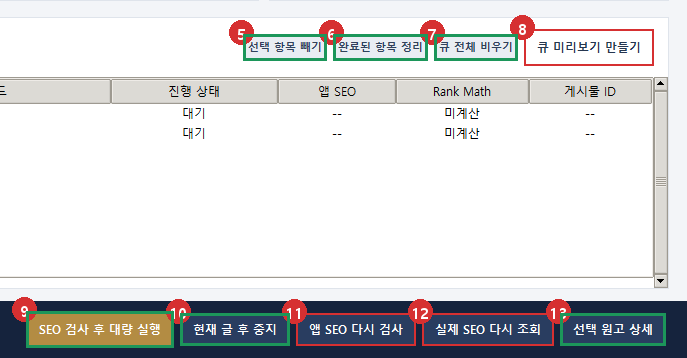
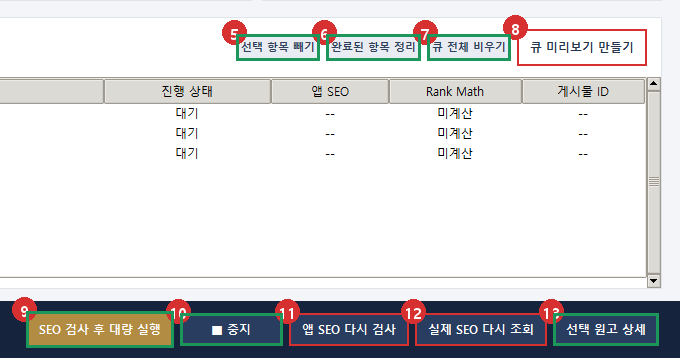
설명서 최신화 — 사전 및 후속작업 탭, 점수 기능 켜기, 글 간격
화면이 바뀐 것을 설명서에 반영하고 지도를 다시 찍었다.

바뀐 내용
- 탭 2 이름: 후속작업 준비 → 사전 및 후속작업 (사전 로그인도 여기 있다)
- Rank Math 버튼 둘(저장된 점수만 조회 / 점수 측정)을 '점수 확인' 하나로 합쳤다.
  먼저 저장된 점수를 즉시 가져오고, 없는 글만 편집기를 열어 잰다.
- '사이트별 Rank Math 점수 사용 가능 여부' 칸과 '점수 기능 켜기' 버튼 추가
- 예약 발행을 없앴다. 임시저장 / 바로 발행 둘 중 하나이고,
  글 간격만큼 실제로 기다렸다가 한 건씩 올린다(그동안 프로그램을 켜 두어야 한다).
- '첫 예약 시각' → '시작 시각', 큐 표의 '예약 시각' → '올릴 시각'
- exe 파일 이름에 판 번호가 붙는다. README 에 최신 판 뱃지를 달았다.

촬영
- 지도 10장을 다시 찍었다. 촬영 창을 1440x1040 으로 키웠다 — 칸이 늘어
  아래 버튼들이 화면 밖으로 밀려 번호가 붙지 않았다.
- 촬영은 데모 홈으로 한다. 사이트 이름은 '예시 사이트 A/B', 주소·계정·비밀번호는 가림.

diff --git a/docs/MANUAL.md b/docs/MANUAL.md
@@ -33,7 +33,7 @@
 
 1. 프로그램을 켜면 로그인 창이 먼저 뜹니다. 발급받은 아이디·비밀번호로 로그인하세요('이 컴퓨터에 비밀번호 저장'을 켜면 다음부터 안 쳐도 됩니다). 권한(wordpress_new)이 없는 계정이면 관리자에게 요청하세요.
 2. 사이트 설정(오른쪽 위 ⚙): 주소·사용자명·응용 프로그램 비밀번호를 넣고 ④ 카테고리 자동 불러오기 가 목록을 가져오면 계정이 맞는 것입니다. ⑤ 적용 → ⑧ 전체 설정 저장.
-3. 탭 2 사전 로그인: ChatGPT ⑩ 로그인 열기 로 로그인(필수). 구글 색인을 쓸 거면 그 아래 같은 버튼으로 Google, Rank Math 점수 측정을 쓸 거면 사이트별 ⑫ 자동 로그인.
+3. 탭 2 사전 로그인: ChatGPT ⑩ 로그인 열기 로 로그인(필수). AI 이미지와 구글 색인을 쓸 거면 그 아래 같은 버튼으로 Google, Rank Math 점수 확인을 쓸 거면 사이트별 ⑫ 자동 로그인. 구글 계정은 하나만 쓸 수 있으니, 색인할 사이트는 모두 그 계정의 Search Console에 등록해 두세요.
 4. 로그인이 끝나면 크롬 창을 모두 닫습니다. 프로그램 전용 프로필로 크롬이 열려 있으면 원고 생성이 실패합니다(탭 2에 '열린 크롬 닫기' 버튼이 뜨면 누르세요).
 5. 탭 1에서 글 구성·지침을 확인하고 시험 주행으로 한 건 뽑아 형태를 봅니다(처음 한 번, 지침을 바꿨을 때).
 6. 이미지를 넣을 거면 방식을 정합니다 — 고정 파일이면 파일 준비, 이미지 풀이면 그림을 폴더에 모아 두기, AI 생성이면 Google 로그인과 Flow 크레딧 확인. (Q6 참고)
@@ -41,8 +41,8 @@
 ![사이트 설정 ④ 카테고리 불러오기 → ⑤ 적용 → ⑧ 저장](manual/case-q2-site.png)
 *사이트 설정 ④ 카테고리 불러오기 → ⑤ 적용 → ⑧ 저장*
 
-![탭 2 사전 로그인 ⑩ ChatGPT·Google · ⑫ WordPress 자동 로그인 · ⑬ 상태 새로고침](manual/case-q2-login.png)
-*탭 2 사전 로그인 ⑩ ChatGPT·Google · ⑫ WordPress 자동 로그인 · ⑬ 상태 새로고침*
+![탭 2 사전 로그인 ⑩ ChatGPT·Google · ⑫ WordPress 자동 로그인 · ⑭ 상태 새로고침](manual/case-q2-login.png)
+*탭 2 사전 로그인 ⑩ ChatGPT·Google · ⑫ WordPress 자동 로그인 · ⑭ 상태 새로고침*
 
 ![④가 성공하면 기본 카테고리 목록이 채워집니다](manual/result-site-categories.png)
 *④가 성공하면 기본 카테고리 목록이 채워집니다*
@@ -71,11 +71,11 @@
 ![실제 1건 발행 타임랩스](manual/videos/v6-posting-timelapse.gif)  
 [MP4로 보기](manual/videos/v6-posting-timelapse.mp4)
 
-### Q4. 여러 사이트에 시간을 나눠 예약 발행하고 싶어요
+### Q4. 여러 사이트에 시간을 나눠 올리고 싶어요
 
 1. 탭 4 스케줄 → ⑨ 대량 스케줄 열기.
 2. 스케줄 창 1번 칸에서 사이트를 고르고 → 2번 칸에 키워드 입력 → ③ 현재 사이트 키워드 저장. 사이트마다 반복합니다.
-3. 3번 칸에서 사이트 순서(교대/사이트별), 첫 예약 시각(최소 10분 뒤), 글 간격, WordPress 처리(예약 공개/임시저장), 본문 이미지를 정합니다.
+3. 3번 칸에서 사이트 순서(교대/사이트별), 시작 시각, 글 간격(분), WordPress 처리(임시저장/바로 발행), 본문 이미지를 정합니다. 글 간격만큼 실제로 기다렸다가 한 건씩 올리므로, 그동안 프로그램을 켜 두어야 합니다. 시작하기 전 확인창이 마지막 글 예정 시각을 알려 줍니다.
 4. ⑧ 큐 미리보기 만들기 → 큐 표에 순번·예약 시각이 채워집니다. 확인 후 ⑨ SEO 검사 후 대량 실행.
 5. 앱 SEO 90점 미만 글은 WordPress로 보내지 않고 'SEO 기준 미달'로 남습니다. ⑬ 선택 원고 상세 로 원고를 보고, ⑪ 앱 SEO 다시 검사 로 재채점할 수 있습니다.
 
@@ -95,13 +95,13 @@
 ### Q5. 발행한 뒤에는 무엇을 하나요 (점수 확인·구글 색인)
 
 1. 탭 2 후속작업 대상 표에서 글을 선택합니다(여러 개 선택 가능).
-2. ⑱ Rank Math 점수 측정 → 확인창에서 '측정 시작'. 크롬이 편집기를 열어 실제 점수를 읽어 옵니다(건당 10~20초). 끝나면 감점 항목 진단과 지침 제안이 뜹니다.
+2. ⑱ Rank Math 점수 확인 → 확인창에서 '확인 시작'. 먼저 WordPress에 저장된 점수를 즉시 가져오고, 그래도 없는 글만 크롬이 편집기를 열어 계산시킵니다(건당 10~20초). 끝나면 감점 항목 진단과 지침 제안이 뜹니다.
 3. 점수가 괜찮으면 WordPress 편집기에서 공개합니다(탭 5에서 행 더블클릭 → 편집기 열림).
-4. 공개한 글을 선택하고 ⑲ 구글 색인 요청. 사이트당 하루 10건 한도이고, 임시저장 글은 요청할 수 없습니다.
-5. 브라우저를 안 열고 저장된 값만 보려면 ⑰ 저장된 점수만 조회.
+4. 구글 색인을 쓰려면 먼저 Search Console 준비가 필요합니다. 색인할 사이트를 모두 같은 구글 계정의 Search Console에 속성으로 추가하고 소유권을 확인해 두세요. 프로그램은 사전 로그인에 연결된 구글 계정 하나로만 요청합니다.
+5. 공개한 글을 선택하고 ⑲ 구글 색인 요청. 사이트당 하루 10건 한도이고, 임시저장 글은 요청할 수 없습니다.
 
-![후속작업 대상 표 → ⑰ 저장된 점수 · ⑱ Rank Math 측정 · ⑲ 구글 색인](manual/case-q5-followup.png)
-*후속작업 대상 표 → ⑰ 저장된 점수 · ⑱ Rank Math 측정 · ⑲ 구글 색인*
+![후속작업 대상 표 → ⑱ Rank Math 점수 확인 · ⑲ 구글 색인](manual/case-q5-followup.png)
+*후속작업 대상 표 → ⑱ Rank Math 점수 확인 · ⑲ 구글 색인*
 
 ![⑱ 확인창](manual/result-tab2-rankmath.png)
 *⑱ 확인창*
@@ -142,11 +142,11 @@
   누르면: '로그 저장 완료' 안내 한 줄만 뜹니다. 폴더나 파일이 따로 생기지 않습니다. 인터넷이 끊겨 있으면 다시 눌러 달라는 안내가 뜹니다.
 - **3. 탭 1 프롬프트 조정** — ChatGPT에 시킬 글 구성과 지침을 정합니다.  
   누르면: 탭이 바뀝니다.
-- **4. 탭 2 후속작업 준비** — 로그인 상태 확인, Rank Math 실제 점수, 구글 색인.  
+- **4. 탭 2 사전 및 후속작업** — 로그인 상태 확인, 사이트별 점수 사용 가능 여부, Rank Math 점수, 구글 색인.  
   누르면: 탭이 바뀌면서 로그인 상태와 후속작업 목록을 새로 읽습니다.
 - **5. 탭 3 포스팅** — 키워드를 넣어 한 사이트에 바로 올립니다.  
   누르면: 탭이 바뀝니다.
-- **6. 탭 4 스케줄** — 여러 사이트에 예약 발행합니다.  
+- **6. 탭 4 스케줄** — 여러 사이트에 정한 간격으로 순서대로 올립니다.  
   누르면: 탭이 바뀝니다.
 - **7. 탭 5 히스토리** — 지금까지 발행한 글 목록.  
   누르면: 탭이 바뀌면서 이력을 새로 읽습니다.
@@ -228,11 +228,11 @@
 ![블록 수정 → 프롬프트 미리보기 → 시험 키워드 입력](manual/videos/v2-prompt-tab.gif)  
 [MP4로 보기](manual/videos/v2-prompt-tab.mp4)
 
-### 탭 2. 후속작업 준비
+### 탭 2. 사전 및 후속작업
 
-위쪽 '사전 로그인'은 자동화에 쓰는 브라우저 로그인 상태이고, 아래 '후속작업 대상'은 발행한 글 목록입니다. 발행·이미지 업로드·카테고리 조회는 응용 프로그램 비밀번호로 처리되므로 브라우저 로그인과 무관합니다.
+위쪽 '사전 로그인'은 자동화에 쓰는 브라우저 로그인 상태, 가운데 '사이트별 Rank Math 점수 사용 가능 여부'는 사이트마다 점수 기능을 쓸 수 있는지, 아래 '후속작업 대상'은 발행한 글 목록입니다. 발행·이미지 업로드·카테고리 조회는 응용 프로그램 비밀번호로 처리되므로 브라우저 로그인과 무관합니다.
 
-![탭 2. 후속작업 준비](manual/map-tab2.png)
+![탭 2. 사전 및 후속작업](manual/map-tab2.png)
 
 - **8. 로그인 열기 (ChatGPT)** — 원고 생성에 쓰는 ChatGPT 로그인 창을 엽니다. '필수'입니다.  
   누르면: 프로그램 전용 크롬이 열립니다. 로그인한 뒤 창을 닫으면 세션이 남습니다.
@@ -242,25 +242,21 @@
   누르면: 크롬이 잠깐 열렸다 닫히고 '자동 로그인 완료' 창이 뜹니다. 관리자 계정이 비어 있으면 안내창.
 - **11. 자동 로그인 (두 번째 사이트)** — 10번과 같고 대상 사이트만 다릅니다. 사이트를 추가하면 줄이 늘어납니다.  
   누르면: 10번과 같습니다.
-- **13. ↻ 연결 상태 새로고침** — 각 줄의 로그인 상태(연결됨/로그인 필요)를 다시 확인합니다. 프로그램 전용 프로필로 크롬이 열려 있으면 이 줄 옆에 '열린 크롬 닫기' 버튼이 나타납니다 — 열려 있으면 원고 생성·자동 로그인이 실패하므로 그때 누릅니다.  
+- **13. 점수 기능 켜기** — 그 사이트에서 Rank Math 점수를 쓸 수 있게 빠진 것을 설치합니다. 초록 줄에는 이 버튼이 없습니다(이미 됩니다). Rank Math 는 워드프레스 공식 저장소에서 바로 받아 설치하고(몇 초), 연동 플러그인은 크롬이 관리자 화면에 로그인해 올립니다(1~2분).  
+  누르면: 무엇을 설치하는지 적힌 확인창이 뜹니다. 끝나면 사이트에 다시 물어 정말 됐는지 확인한 결과를 알려 줍니다. 연동 플러그인을 설치하려면 사이트 설정에 관리자 아이디·비밀번호가 저장돼 있어야 합니다.
+- **14. ↻ 연결 상태 새로고침** — 각 줄의 로그인 상태(연결됨/로그인 필요)를 다시 확인합니다. 프로그램 전용 프로필로 크롬이 열려 있으면 이 줄 옆에 '열린 크롬 닫기' 버튼이 나타납니다 — 열려 있으면 원고 생성·자동 로그인이 실패하므로 그때 누릅니다.  
   누르면: 표시가 갱신됩니다.
-- **14. 프로필 초기화** — 그 폴더를 통째로 지웁니다. 크롬이 아예 열리지 않는 등 프로필이 망가졌을 때만 씁니다.  
+- **15. 프로필 초기화** — 그 폴더를 통째로 지웁니다. 크롬이 아예 열리지 않는 등 프로필이 망가졌을 때만 씁니다.  
   누르면: 지우면 ChatGPT·구글·WordPress 브라우저 로그인이 모두 풀립니다(사이트 설정과 발행 기록은 그대로). 무엇이 사라지는지 적힌 확인창이 먼저 뜨고, 크롬이 열려 있으면 닫으라는 안내만 뜹니다.
-- **15. 프로필 폴더 열기** — 자동화용 크롬이 로그인 정보를 쌓아 두는 폴더를 탐색기로 엽니다.  
+- **16. 프로필 폴더 열기** — 자동화용 크롬이 로그인 정보를 쌓아 두는 폴더를 탐색기로 엽니다.  
   누르면: 탐색기 창이 열립니다. 확인용이며 아무것도 바꾸지 않습니다.
-- **16. ↻ 목록 새로고침** — 후속작업 대상 표를 히스토리에서 다시 읽습니다.  
+- **17. ↻ 목록 새로고침** — 후속작업 대상 표를 히스토리에서 다시 읽습니다.  
   누르면: 표가 갱신됩니다.
-- **17. 저장된 점수만 조회** — 선택한 글의 Rank Math 점수를 WordPress에 저장된 값으로만 읽어 옵니다(브라우저 안 엶).  
-  누르면: 결과 창이 뜹니다. 편집기에서 아직 계산되지 않은 글은 '미계산'.
+- **18. Rank Math 점수 확인** — 선택한 글의 Rank Math 점수를 확인합니다. 먼저 WordPress에 저장된 점수를 즉시 가져오고, 그래도 없는 글만 크롬이 편집기를 열어 계산시킵니다. 글을 저장하거나 공개하지 않습니다.  
+  누르면: 확인창이 뜹니다. 시작하면 저장된 점수는 즉시, 나머지는 건당 10~20초 걸리고 끝나면 감점 항목 진단과 지침 제안이 나옵니다.
   <details><summary>결과 화면</summary>
 
-  ![저장된 점수만 조회](manual/result-tab2-saved-scores.png)
-  </details>
-- **18. Rank Math 점수 측정** — 선택한 글의 편집기를 크롬으로 열어 Rank Math가 계산한 실제 점수를 읽습니다. 글을 저장하거나 공개하지 않습니다.  
-  누르면: 건수와 예상 시간이 적힌 확인창이 뜹니다. 시작하면 건당 10~20초 걸리고 끝나면 감점 항목 진단과 지침 제안이 나옵니다.
-  <details><summary>결과 화면</summary>
-
-  ![Rank Math 점수 측정](manual/result-tab2-rankmath.png)
+  ![Rank Math 점수 확인](manual/result-tab2-rankmath.png)
   </details>
 - **19. 🔎 구글 색인 요청** — 선택한 글 주소를 Search Console에 색인 요청합니다. 공개 발행된 글만 가능하고 사이트당 하루 10건 한도.  
   누르면: 임시저장 글만 골랐으면 '공개된 글이 없습니다'. 공개 글이면 건수·남은 한도가 적힌 확인창이 뜹니다.
@@ -332,7 +328,7 @@
 
 ### 탭 4. 스케줄
 
-여러 사이트에 시간을 나눠 예약 발행합니다. 실제 작업은 별도 창에서 합니다(아래 '대량 스케줄 창'). 아래 '진행 상황'에는 지금 무엇을 하는 중인지가 한 줄씩 쌓입니다. 스케줄 창을 닫아 두고 이 화면만 보고 있어도 어디까지 갔는지 알 수 있습니다.
+여러 사이트에 정한 간격으로 순서대로 올립니다. 실제 작업은 별도 창에서 합니다(아래 '대량 스케줄 창'). 아래 '진행 상황'에는 지금 무엇을 하는 중인지가 한 줄씩 쌓입니다. 스케줄 창을 닫아 두고 이 화면만 보고 있어도 어디까지 갔는지 알 수 있습니다.
 
 ![탭 4. 스케줄](manual/map-tab4.png)
 
@@ -368,7 +364,7 @@
 - **7. 큐 전체 비우기** — 큐를 통째로 비웁니다. 키워드는 지워지지 않습니다.  
   누르면: 확인창이 뜹니다. 비운 뒤 '큐 미리보기 만들기'로 다시 만들 수 있습니다.
 - **8. 큐 미리보기 만들기** — 저장된 키워드를 배치 방식(교대/사이트별)과 간격대로 순서를 매겨 큐 표에 채웁니다.  
-  누르면: 큐 표에 순번·예약 시각·사이트·키워드가 채워집니다. 예약 공개는 최소 10분 뒤 시각이어야 합니다.
+  누르면: 큐 표에 순번·올릴 시각·사이트·키워드가 채워집니다.
   <details><summary>결과 화면</summary>
 
   ![큐 미리보기 만들기](manual/result-schedule-queue.png)
@@ -379,8 +375,8 @@
 
   ![SEO 검사 후 대량 실행](manual/result-schedule-run.png)
   </details>
-- **10. 현재 글 후 중지** — 실행 중인 대량 작업을 멈춥니다.  
-  누르면: 지금 만드는 한 건을 마치고 멈춥니다.
+- **10. ■ 중지** — 실행 중인 대량 작업을 멈춥니다.  
+  누르면: 누르는 즉시 멈춥니다. 만들다 만 글은 올리지 않고 '대기'로 되돌려, 다시 실행하면 이어서 합니다.
 - **11. 앱 SEO 다시 검사** — 선택한 행의 원고를 앱 기준으로 다시 채점합니다.  
   누르면: 원고가 아직 없으면 안내창. 있으면 점수 칸이 갱신됩니다.
   <details><summary>결과 화면</summary>

diff --git a/README.md b/README.md
@@ -1,21 +1,28 @@
 # WordPress Auto Publisher
 
+[![최신 버전](https://img.shields.io/github/v/release/hihiood/wordpress-auto-publisher?label=%EC%B5%9C%EC%8B%A0%20%EB%B2%84%EC%A0%84)](https://github.com/hihiood/wordpress-auto-publisher/releases/latest)
+
 키워드만 넣으면 ChatGPT로 SEO 원고를 만들고, 이미지를 넣어 WordPress에 자동으로 올리는 프로그램입니다.
-여러 사이트에 예약 발행하고, Rank Math 실제 점수 확인과 구글 색인 요청까지 한곳에서 합니다.
+여러 사이트에 정한 간격으로 순서대로 올리고, Rank Math 실제 점수 확인과 구글 색인 요청까지 한곳에서 합니다.
 
 ## 다운로드
 
 | 파일 | 설명 | 받기 |
 |---|---|---|
-| `WordPressAutoPublisher.exe` | 프로그램 실행 파일 (설치 없이 실행) | [최신 버전 받기](https://github.com/hihiood/wordpress-auto-publisher/releases/latest) |
+| `WordPressAutoPublisher_v(판).exe` | 프로그램 실행 파일 (설치 없이 실행) | [최신 버전 받기](https://github.com/hihiood/wordpress-auto-publisher/releases/latest) |
+
+파일 이름 뒤의 숫자가 판 번호입니다(예: `WordPressAutoPublisher_v1.1.0.exe`). 숫자가 클수록 최신입니다.
 
 받은 exe 를 **비어 있는 새 폴더**에 넣고 실행하세요. 설정·이력·크롬 프로필은 그 폴더 안에 저장됩니다.
 
 ```
 WordPressAutoPublisher\
-  WordPressAutoPublisher.exe   ← 이것만 있으면 됩니다
+  WordPressAutoPublisher_v1.1.0.exe   ← 이것만 있으면 됩니다
   (첫 실행 뒤 자동 생성) auth.json · history.json · chrome_profile\ · 생성이미지\ …
 ```
+
+프로그램 기능은 실행할 때마다 자동으로 최신이 됩니다. exe 를 다시 받아야 할 때만
+실행 직후 안내 창이 떠서 알려 줍니다.
 
 ## 사용설명서
 
@@ -44,3 +51,5 @@ WordPressAutoPublisher\
 - Google Chrome 설치
 - 인터넷 연결 (ChatGPT, WordPress, 구글 접속)
 - WordPress 사이트에 Rank Math SEO 플러그인이 있으면 SEO 제목·메타 설명까지 저장됩니다(없어도 발행은 됩니다)
+- Rank Math 점수를 프로그램에서 보려면 연동 플러그인이 필요합니다. **2 사전 및 후속작업** 탭의
+  `점수 기능 켜기` 를 누르면 프로그램이 알아서 설치합니다(사이트 관리자 아이디·비밀번호가 저장돼 있어야 합니다)
